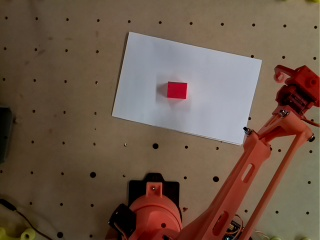
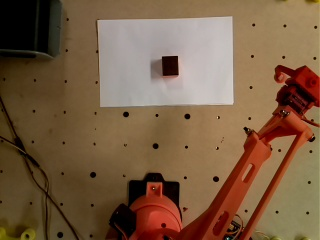
Agrega detector de colores

diff --git a/color_detection.py b/color_detection.py
@@ -1,0 +1,25 @@
+import cv2
+import numpy as np
+
+class ColorDetector:
+    black = [np.array([0,0,0]), np.array([350,55,100])]
+
+    def __init__(self):
+        self.img = None
+        self.hsv = None
+    
+    def load_img(self, img):
+        self.img = img
+        self.hsv = cv2.cvtColor(img, cv2.COLOR_BGR2HSV)
+
+    def detection(self, color=black):
+        self.mask = cv2.inRange(self.img, self.black[0], self.black[1])
+        self.res = cv2.bitwise_and(self.img, self.img, mask = self.mask)
+
+    def show_imgs(self):
+        cv2.imshow('frame', self.img)
+        cv2.imshow('mask', self.mask)
+        cv2.imshow('res',self.res)
+
+        cv2.waitKey(0)
+        cv2.destroyAllWindows()

diff --git a/test_color_detection.py b/test_color_detection.py
@@ -1,0 +1,10 @@
+import cv2
+from color_detection import ColorDetector
+
+cube = cv2.imread('images/working_img.png')
+
+detector = ColorDetector()
+detector.load_img(cube)
+detector.detection()
+
+detector.show_imgs()
